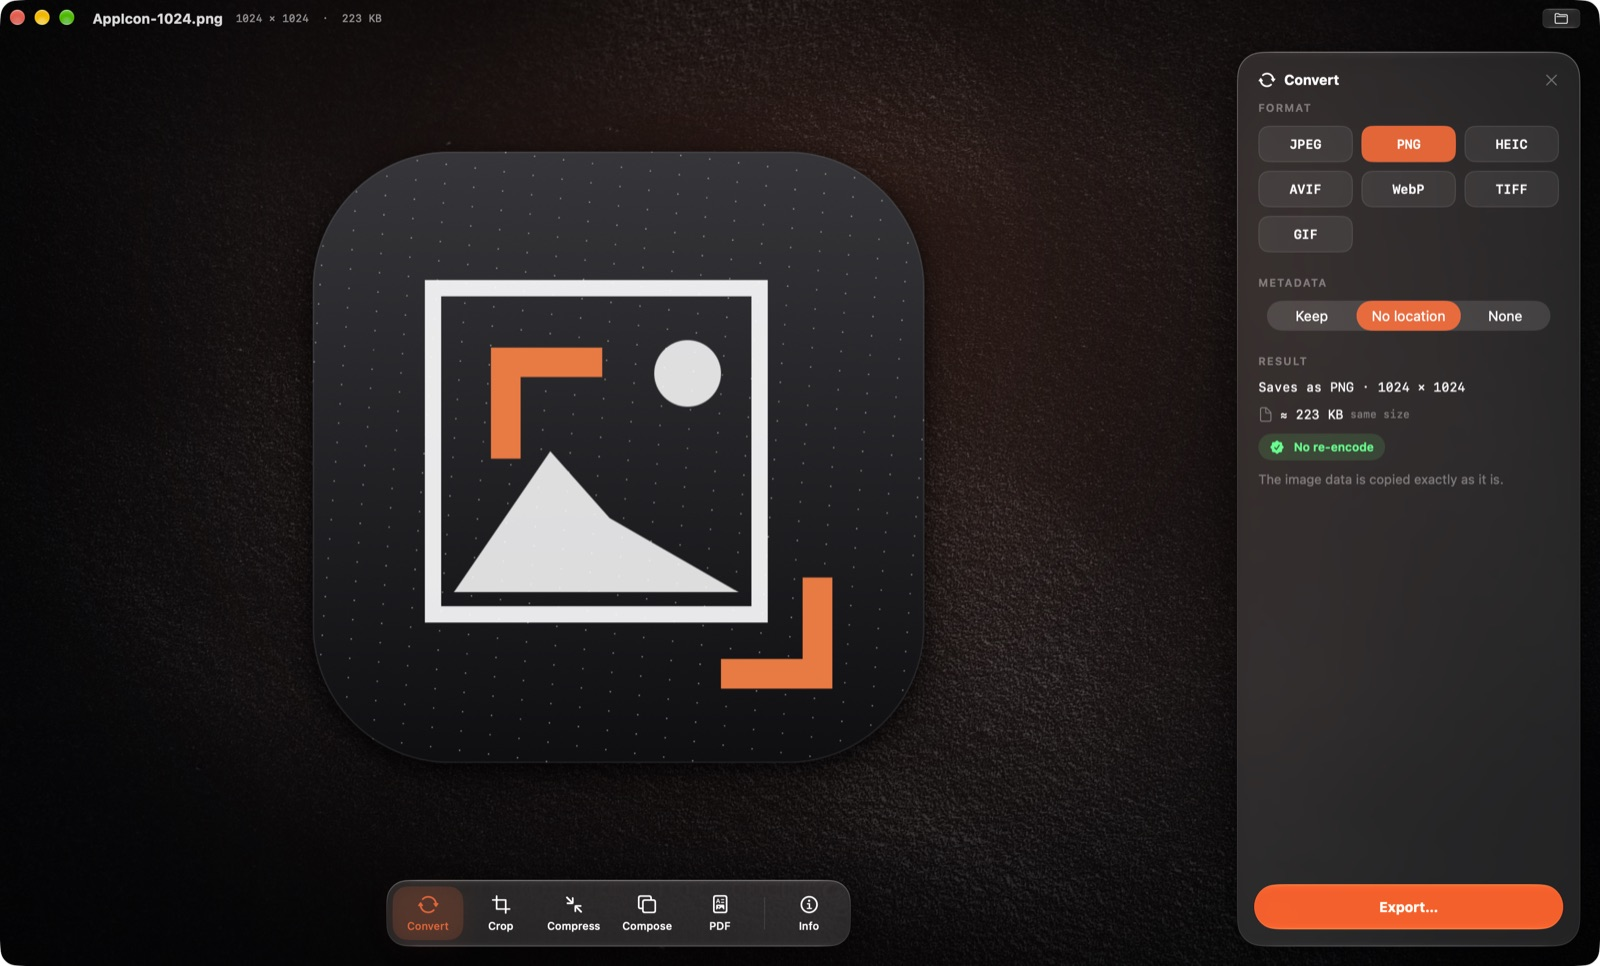
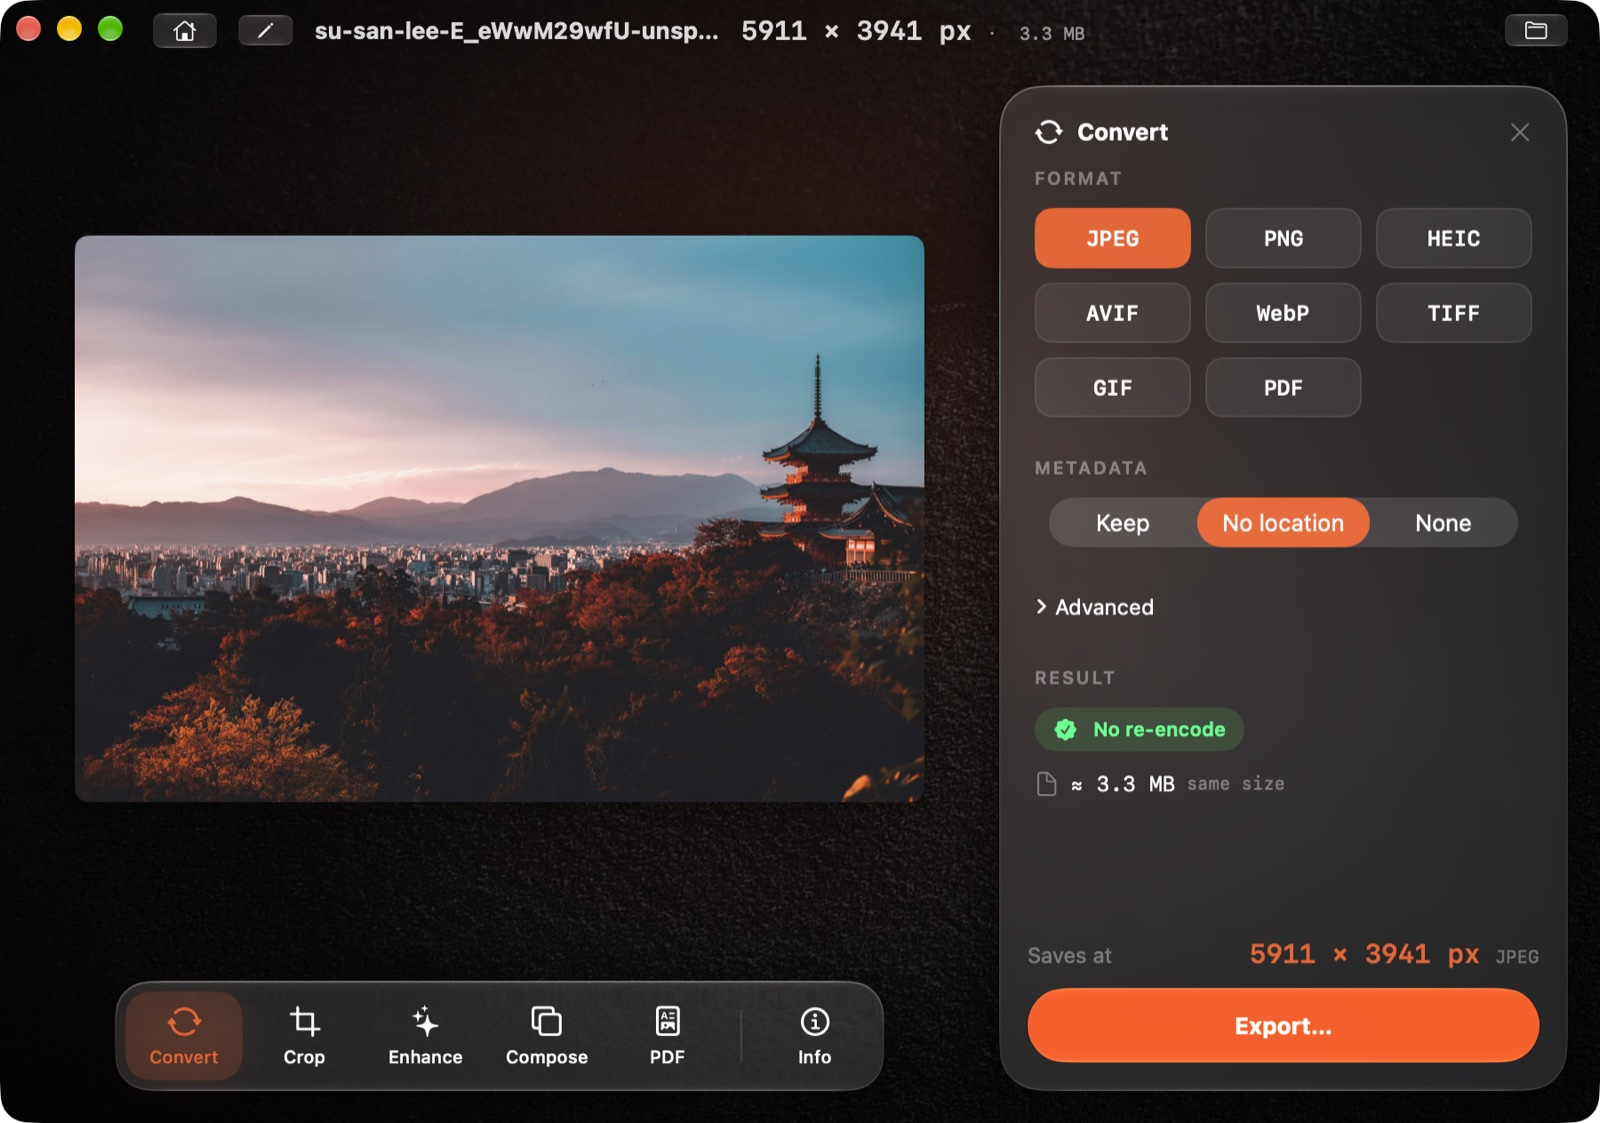
README: shorter, with a new screenshot

diff --git a/README.md b/README.md
@@ -2,80 +2,30 @@
 
 # DEX
 
-**Take any image or sound and quickly turn it into what you need.** DEX is a small, native Mac app for converting, cropping, compressing and combining images, working with PDFs, and trimming and converting audio. It keeps quality whenever that's possible and tells you plainly when it isn't.
+**Turn any image, PDF or sound into what you need.** A small, native Mac app that keeps quality wherever it can and tells you plainly when it can't.
 
-<p align="center"><img src="design/screenshot.jpg" width="800" alt="DEX with an image open and the Convert panel showing a lossless result"></p>
+<p align="center"><img src="design/screenshot.jpg" width="800" alt="DEX with a photo open"></p>
 
 ## What it does
-
-| Tool | What you can do |
-|---|---|
-| **Convert** | JPEG, PNG, HEIC, WebP, AVIF, TIFF, GIF or PDF, in any direction. HDR photos stay HDR where the format allows. Location data is removed by default. **Advanced** has the quality slider, lossless repacking and smaller dimensions (4K / web), with the real resulting size shown before you save |
-| **Crop** | Crop, rotate and flip to Free, 1:1, 3:4, 4:3, 16:9 or 9:16, with a pixel-level zoom while you drag. JPEG crops are lossless. **Fit** keeps the whole picture and fills the space around it with white, black, a colour, transparency or a blur, without touching the photo's own pixels |
-| **Animations** | Animated GIFs and WebPs get a timeline: play them (Space), trim them and save as a GIF with each frame's own timing, or pick one frame and save it as a still |
-| **Enhance** | AI upscaling 2× or 4× on your Mac: **Fast** or **Best** for photos (with noise and JPEG-block removal), **Anime** for drawings, and optional face restoration. Models download the first time (2–76 MB each). The result is always marked as AI-made |
-| **Compose** | Put images on top of each other (logos, watermarks), join them side by side, stacked or in a grid, or place them freely on a **Canvas** of any size (Story, A4, Letter…), in any mix of formats |
-| **PDF** | Make PDFs from images; turn PDF pages into images; rearrange, rotate, delete, extract, merge, split, add text or images to, and compress PDFs |
-| **Audio** | Trim on a zoomable waveform, play it back, and save as WAV, AIFF, FLAC, ALAC, AAC or MP3. Trimming an MP3, AAC or ALAC doesn't re-encode it, and is still exact to the sample. Show and change the cover art, title and artist. Paste a YouTube link and choose on the next page: audio (AAC exactly as streamed, MP3, FLAC, ALAC, WAV, AIFF) or **video** in any quality up to 4K/8K, saved as MP4 without re-encoding |
-
-You can also right-click images in Finder: **Services → DEX ▸ Convert to JPEG / PNG / HEIC / WebP, Combine into PDF**.
-
-## Requirements
-- A Mac with Apple Silicon (M1 or newer)
-- macOS 26 or later
+- **Convert** images between JPEG, PNG, HEIC, WebP, AVIF, TIFF, GIF and PDF.
+- **Crop**, rotate and **Fit** to any shape.
+- **Enhance** with AI: 2× or 4× sharper, for photos, anime and faces.
+- **Compose** images together, or design on a page (A4, Story, any size).
+- **Animations:** trim GIFs and save single frames.
+- **PDF:** make, split, merge and edit PDFs.
+- **Audio:** trim and convert, or download from a YouTube link.
 
 ## Install
+1. Download **DEX.zip** from [Releases](https://github.com/vxkram/DEX/releases/latest) and move **DEX.app** to Applications.
+2. The first time, allow it in **System Settings ▸ Privacy & Security ▸ Open Anyway** (it isn't notarised yet).
 
-### Option A: download the app (no Xcode needed)
-1. Download **DEX.zip** from the [Releases page](https://github.com/vxkram/DEX/releases).
-2. Double-click the zip, then drag **DEX.app** into your **Applications** folder.
-3. Open it. The first time, macOS will say it can't verify the app, because it isn't notarised by Apple yet. To allow it:
-   - open **System Settings → Privacy & Security**,
-   - scroll down to the message about DEX, click **Open Anyway**, and confirm.
-
-   You only need to do this once.
-
-### Option B: build it yourself (needs Xcode)
-1. Install **Xcode** from the Mac App Store (free, about 10 GB), open it once, then run:
-   ```sh
-   sudo xcode-select -s /Applications/Xcode.app
-   ```
-2. Install Homebrew from [brew.sh](https://brew.sh) if you don't have it, then:
-   ```sh
-   brew install xcodegen
-   ```
-3. Get the code and build:
-   ```sh
-   git clone https://github.com/vxkram/DEX.git
-   cd DEX
-   make package
-   ```
-4. The app is in **build/DEX.zip**. Unzip it and move DEX.app to Applications.
-
-## Using it
-1. **Drop an image, a PDF or an audio file** onto the window (or click **Choose File…**).
-2. Pick a tool from the dock at the bottom: **Convert, Crop, Enhance, Compose, PDF, Info** for images (shortcuts ⌘1–⌘6), or **Trim, Convert, Info** for audio. The house button (⇧⌘H) takes you back to the start.
-   For audio: Space plays, I and O set the trim at the playhead, and ⌘+ / ⌘− zoom (or pinch, or ⌥-scroll).
-   To get audio or video from YouTube, paste the link on the start screen or choose **File ▸ Download from Link…** (⇧⌘O), press **Continue**, choose **Audio** or **Video**, pick a format or quality and **Download**. It's saved to Downloads.
-3. Check the **Result** in the panel. It shows the format, the size of the file you'll get, and whether anything is lost. If a file will be bigger than the original, tap **Why?** to see the reason.
-4. Click **Export** (⌘E) and choose where to save. **Your original file is never changed or overwritten.**
-
-## DEX Mini for Chrome and Firefox
-A small browser extension with the same look and the same honesty about quality. It lives in [`extension/`](extension/).
-- **Edit images:** choose an image from the toolbar popup, or right-click any image on a page and choose **Edit with DEX…**. You can crop, rotate, flip, convert to PNG, JPEG or WebP, and resize, and the verdict tells you what each choice costs. Animated GIFs get a timeline: trim them, crop every frame, and save them as a GIF, or save one frame as PNG.
-- **Screenshot any page:** drag a box over part of a page (Alt+Shift+S), or capture the whole visible page, and the shot opens in the editor. With a video on the page (YouTube included), **Save Video Frame** in the popup saves the current frame as a PNG at the video's full resolution.
-- **Convert downloads automatically** (turn it on in the popup): WebP images arrive as PNG (or JPEG), and WebM video becomes MP4. The MP4 copies the streams untouched by default, or re-encodes to H.264 if you choose that, so it plays everywhere. Animated WebPs are left alone. If DEX can't convert a file, you keep the original.
-
-It isn't in the browser stores yet. To try it, build it as described in [docs/DEVELOPMENT.md](docs/DEVELOPMENT.md#browser-extension) and load it unpacked.
-
-## Ideas & feedback
-Have an idea, found a bug, or want a format DEX doesn't handle yet? Post it in **[Discussions](https://github.com/vxkram/DEX/discussions)**: ideas go under *Ideas*, questions under *Q&A*. Upvote the ideas you want most; that decides what comes next.
+Needs an Apple Silicon Mac with macOS 26 or later. To build it yourself, see [docs/DEVELOPMENT.md](docs/DEVELOPMENT.md).
 
 ## Privacy
-Everything happens on your Mac, and DEX never uploads anything. The app itself has no network access. There are two exceptions. One is **Download from Link**: a small helper inside the app fetches the downloader (yt-dlp, from its official GitHub release, checksum-verified) the first time you use it, and then fetches the audio or video you asked for. The other is **Enhance**: the same helper downloads the AI model you need from DEX's own GitHub release the first time, and DEX checks its fingerprint before using it. Your images are enhanced on your Mac and never uploaded. Nothing else goes online. Location data is removed from exported photos unless you choose **Metadata → Keep**. The browser extension also works entirely in your browser. It fetches only the images and downloads you act on, and it sends nothing anywhere.
+Everything runs on your Mac and nothing is uploaded. DEX only goes online when you ask it to: a YouTube download, or the one-time download of an Enhance model.
 
-## Credits
-Built with libjpeg-turbo, libwebp, LAME (MP3, LGPL, shipped as its own replaceable library) and Apple's frameworks. Details and licences are in **DEX ▸ About DEX**. For developers, see [docs/DEVELOPMENT.md](docs/DEVELOPMENT.md).
-
-## Licence
-DEX is released under the [MIT Licence](LICENSE). The bundled third-party libraries keep their own licences ([docs/NOTICES.md](docs/NOTICES.md)).
+## More
+- **DEX Mini**, the browser extension for Chrome and Firefox, is in [`extension/`](extension/).
+- Ideas and bugs go in [Discussions](https://github.com/vxkram/DEX/discussions).
+- MIT licence. Third-party licences are in [docs/NOTICES.md](docs/NOTICES.md) and in **DEX ▸ About DEX**.
+- Screenshot photo by [Su San Lee](https://unsplash.com/photos/E_eWwM29wfU) on Unsplash.
